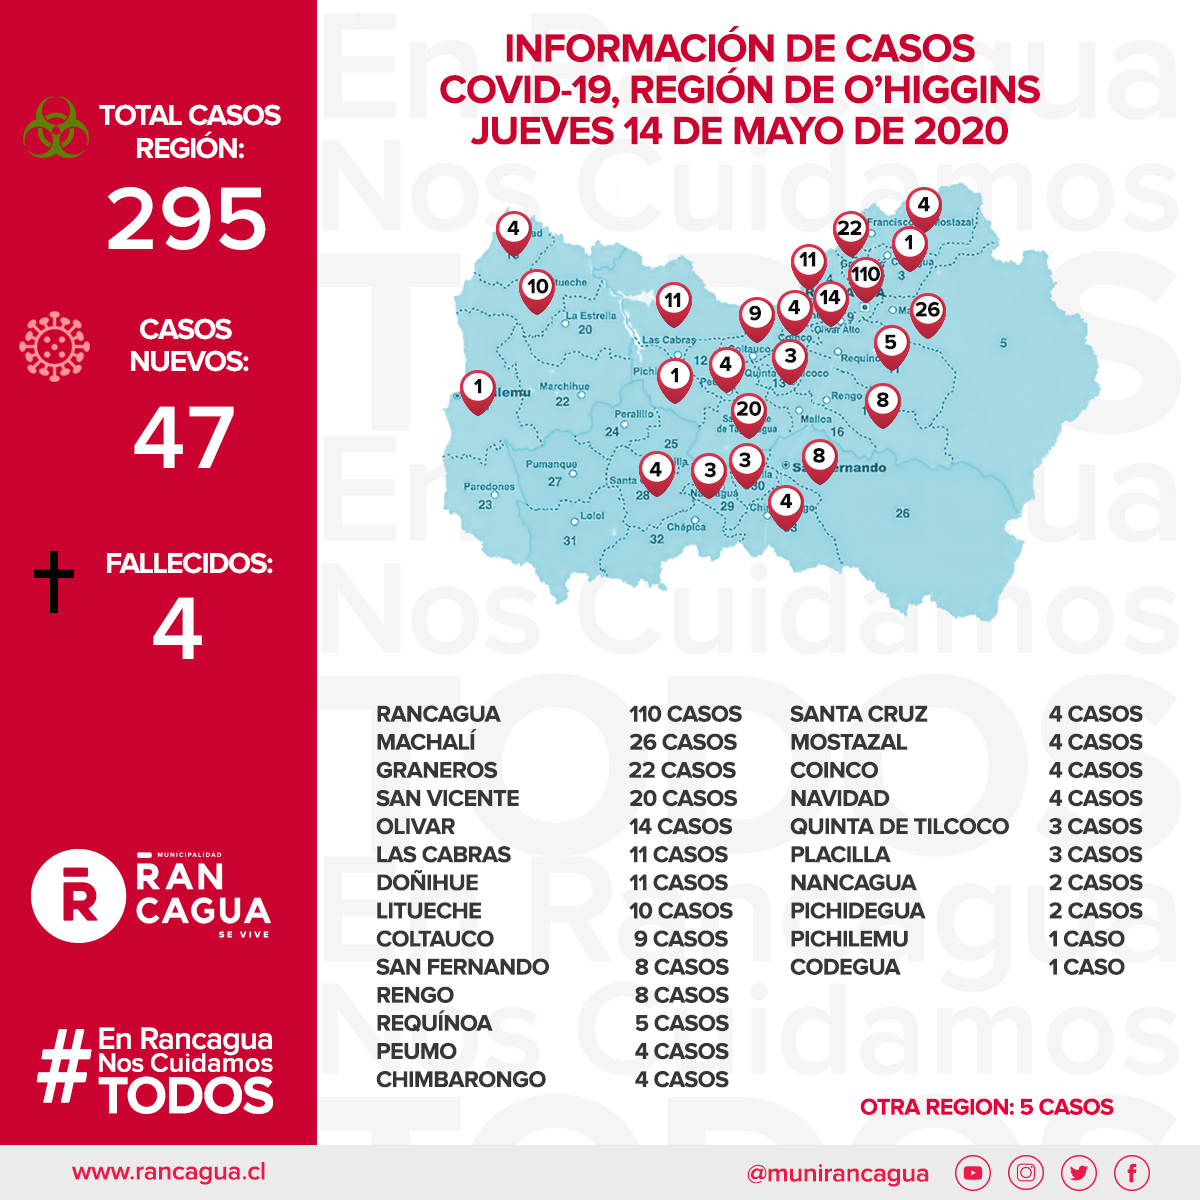
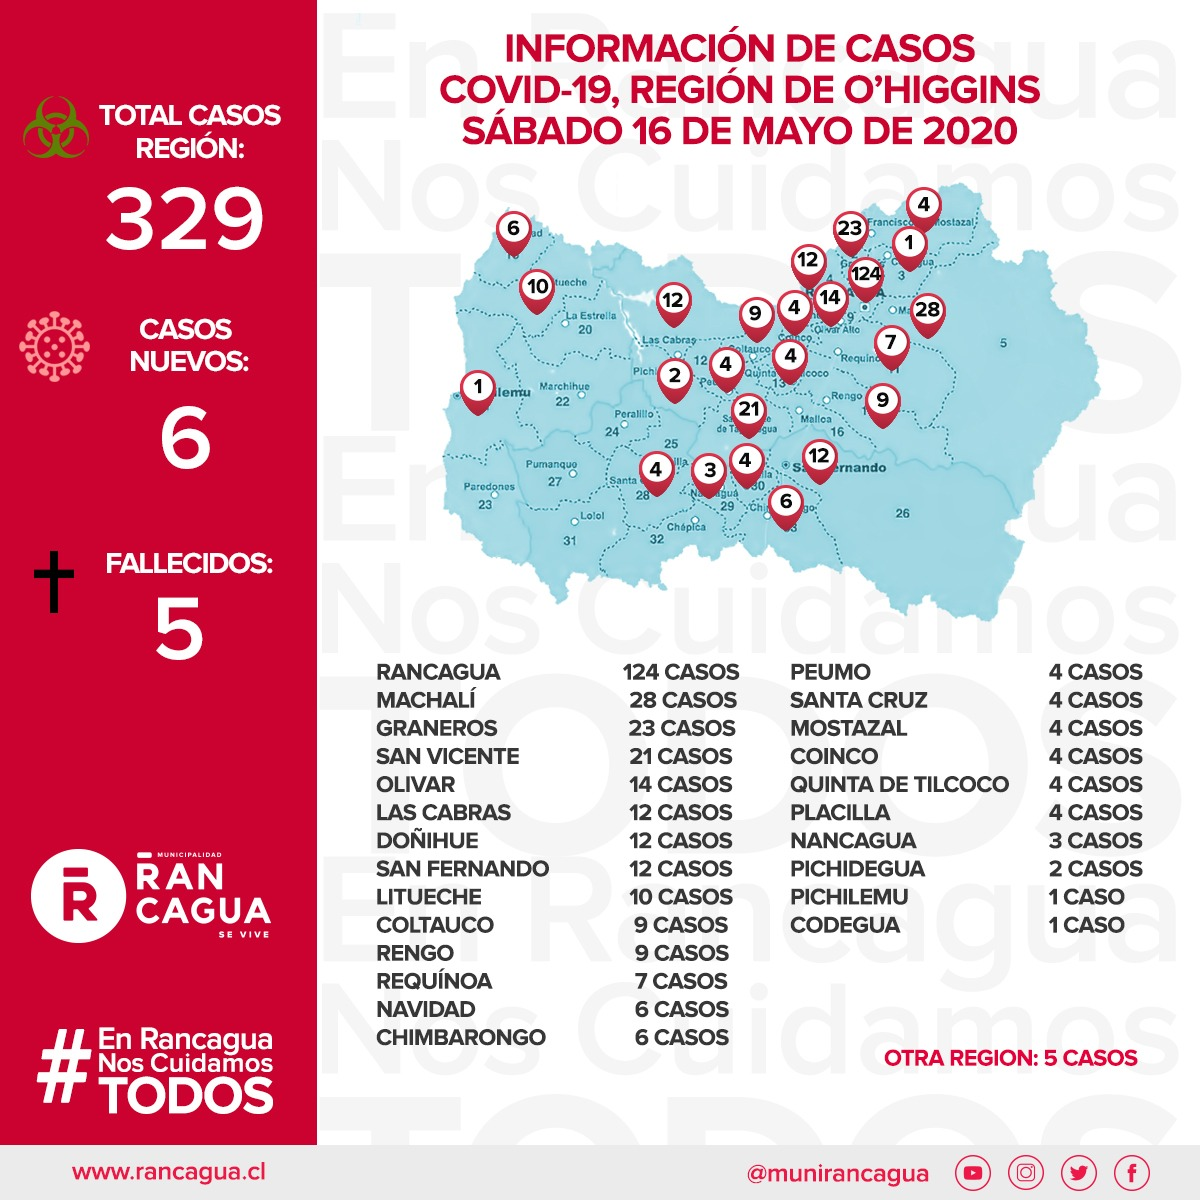
update images

diff --git a/src/components/Statistics/index.tsx b/src/components/Statistics/index.tsx
@@ -6,17 +6,16 @@ const Statistic: React.FC = () => {
         <div>
             <h3 className='text-uppercase'>CIFRAS DE CONTAGIO</h3>
             {/*  <h5 className='hash'>#fase4rancagua</h5> */}
-             <p className='last-update'>Última actualización 15 Mayo 2020 17:00hrs</p>
+            <p className='last-update'>Última actualización 16 Mayo 2020 13:30hrs</p>
             <hr />
             <div className='row'>
                 <div className='col-md-6 col-xs-12'>
-                    <img className='img-fluid' src='/assets/images/covid-map.jpeg' />
+                    <img className='img-fluid' src='/assets/images/covid-map.jpg' />
                 </div>
                 <div className='col-md-6 col-xs-12'>
-                    <img className='img-fluid mt-2' src='/assets/images/covid-graph.jpeg' />
+                    <img className='img-fluid mt-2' src='/assets/images/covid-graph.jpg' />
                 </div>
             </div>
-           
         </div>
     )
 }
